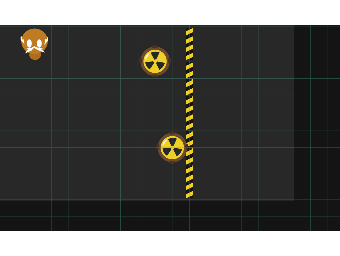
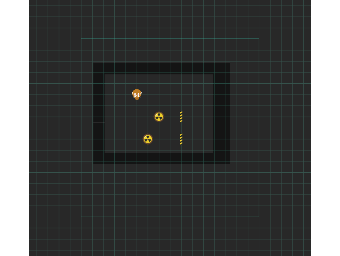
Reacteurs

diff --git a/NOThInG/src/types/Player/ondraw.js b/NOThInG/src/types/Player/ondraw.js
@@ -1,14 +1,14 @@
 
 if(this.MMovable.dir === DIR.UP) {
     if (this.MAntiGravity) {
-        this.tex = 'Player_Back_Gravity';
+        this.tex = 'Player_Gravity_Back';
     } else {
         this.tex = 'Player_Back';
     }
     this.scale.x = 1;
 } else if(this.MMovable.dir === DIR.DOWN) {
     if (this.MAntiGravity) {
-        this.tex = 'Player_Front_Gravity';
+        this.tex = 'Player_Gravity_Front';
     } else {
         this.tex = 'Player_Front';
     }
@@ -16,14 +16,14 @@ if(this.MMovable.dir === DIR.UP) {
 } else if(this.MMovable.dir === DIR.LEFT) {
     self.lastMove = DIR.LEFT;
     if (this.MAntiGravity) {
-        this.tex = 'Player_Side_Gravity';
+        this.tex = 'Player_Gravity_Side';
     } else {
         this.tex = 'Player_Side';
     }
     this.scale.x = -1;
 } else if(this.MMovable.dir === DIR.RIGHT) {
     if (this.MAntiGravity) {
-        this.tex = 'Player_Side_Gravity';
+        this.tex = 'Player_Gravity_Side';
     } else {
         this.tex = 'Player_Side';
     }

diff --git a/NOThInG/src/scripts/MActivable/code.js b/NOThInG/src/scripts/MActivable/code.js
@@ -1,11 +1,17 @@
  const MActivable = (self,active) =>{
     MObstacle(self);
     self.MActivable = {
-        deactivate() {
+        deactivate(dist) {
             active = false;
+            for(const obj of utils.getUnderDistance(self, dist, 'MOpenable')) {
+                obj.MOpenable.close();
+            }
         },
-        activate(){
+        activate(dist){
             active = true;
+            for(const obj of utils.getUnderDistance(self, dist, 'MOpenable')) {
+                obj.MOpenable.open();
+            }
         },
         isActive(){
             return active;

diff --git a/NOThInG/src/types/Reactor/ondraw.js b/NOThInG/src/types/Reactor/ondraw.js
@@ -1,5 +1,7 @@
 if (this.MActivable.isActive()){
     this.tex = 'Reactor_On';
+    this.MActivable.activate(2);
 }else{
     this.tex = 'Reactor_Off';
+    this.MActivable.deactivate(2);
 }

diff --git a/NOThInG/src/types/Reactor/oncreate.js b/NOThInG/src/types/Reactor/oncreate.js
@@ -1,4 +1,4 @@
-MActivable(this,false);
+MActivable(this,true);
 
 setTimeout(() => { 
     console.log(utils.getUnderDistance(this,3,'MOpenable'));

diff --git a/NOThInG/src/types/Porte/oncreate.js b/NOThInG/src/types/Porte/oncreate.js
@@ -1,1 +1,1 @@
-MOpenable(this,true);
+MOpenable(this,false);
